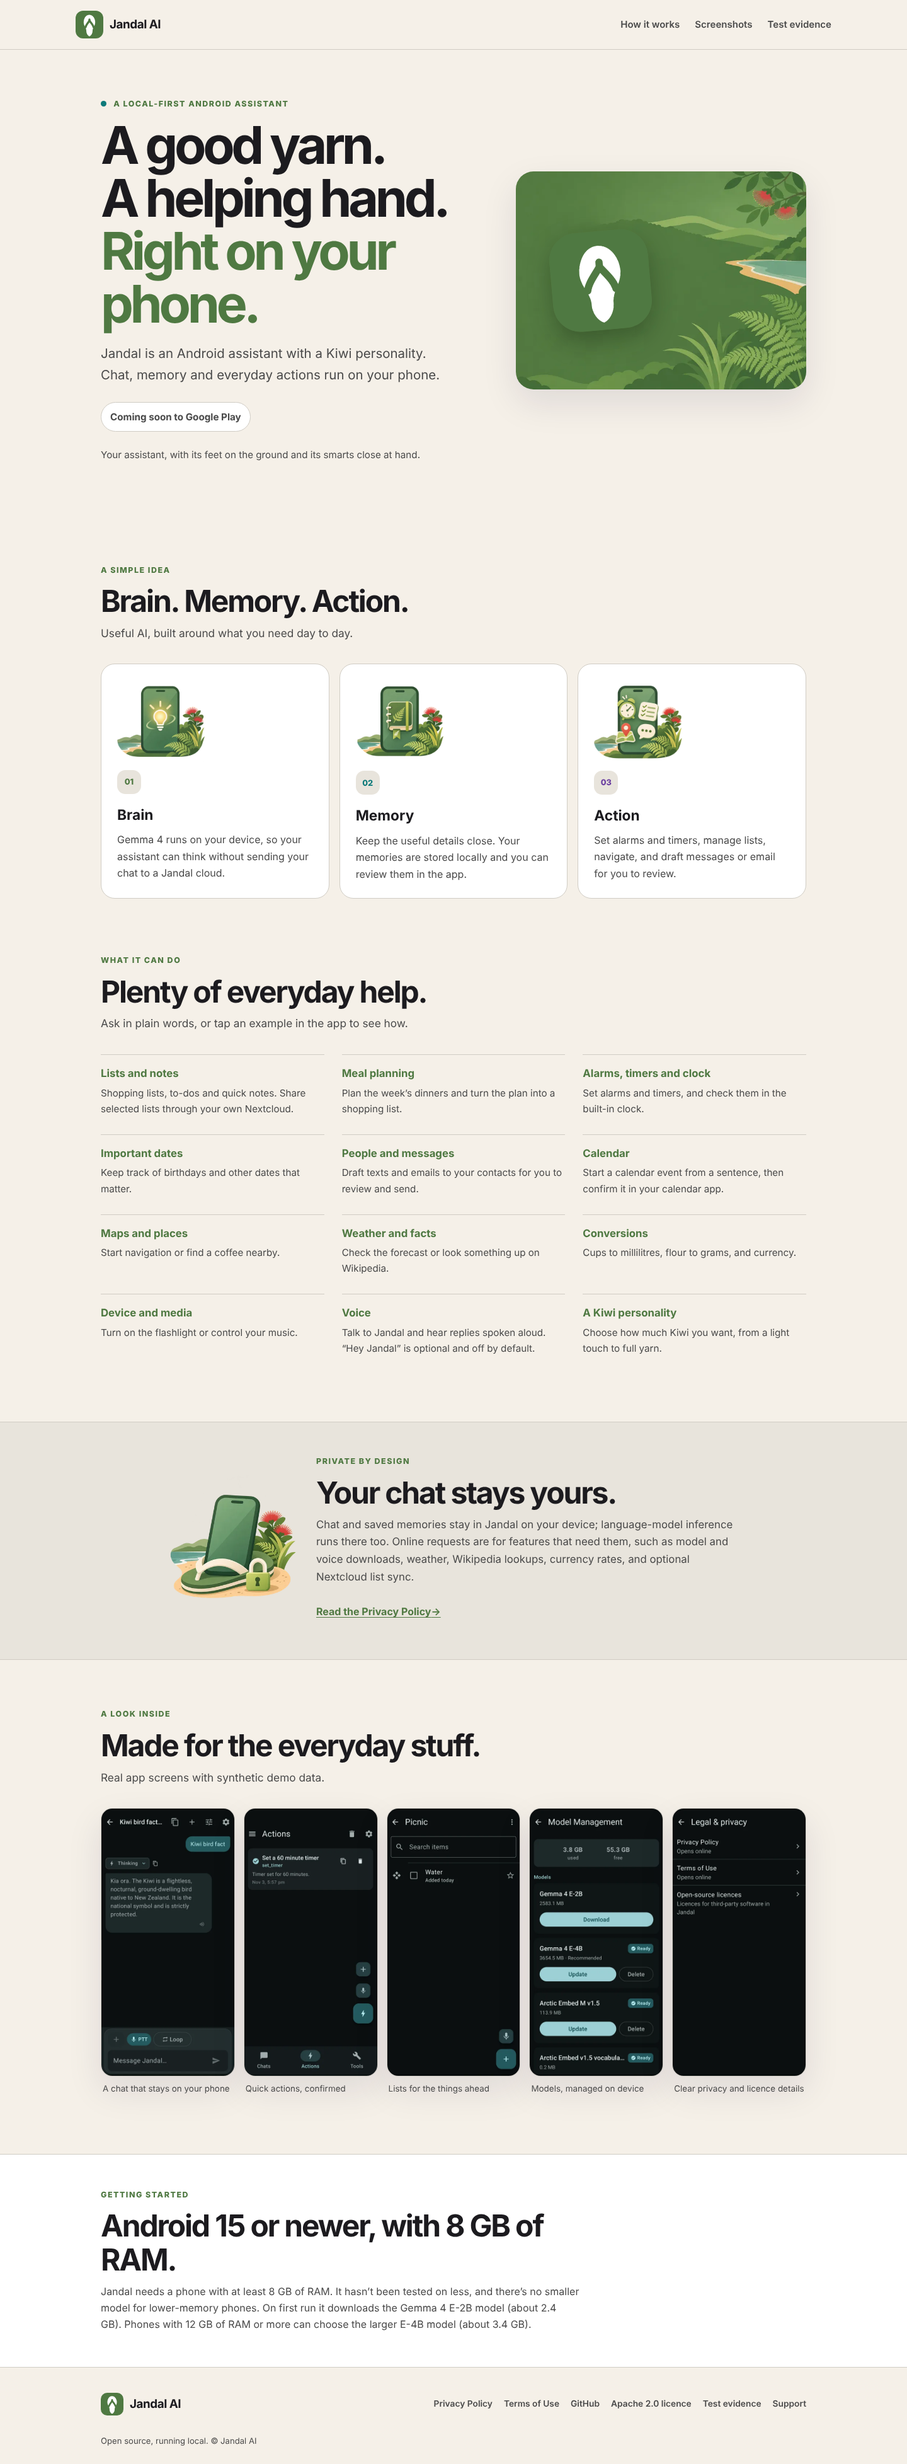
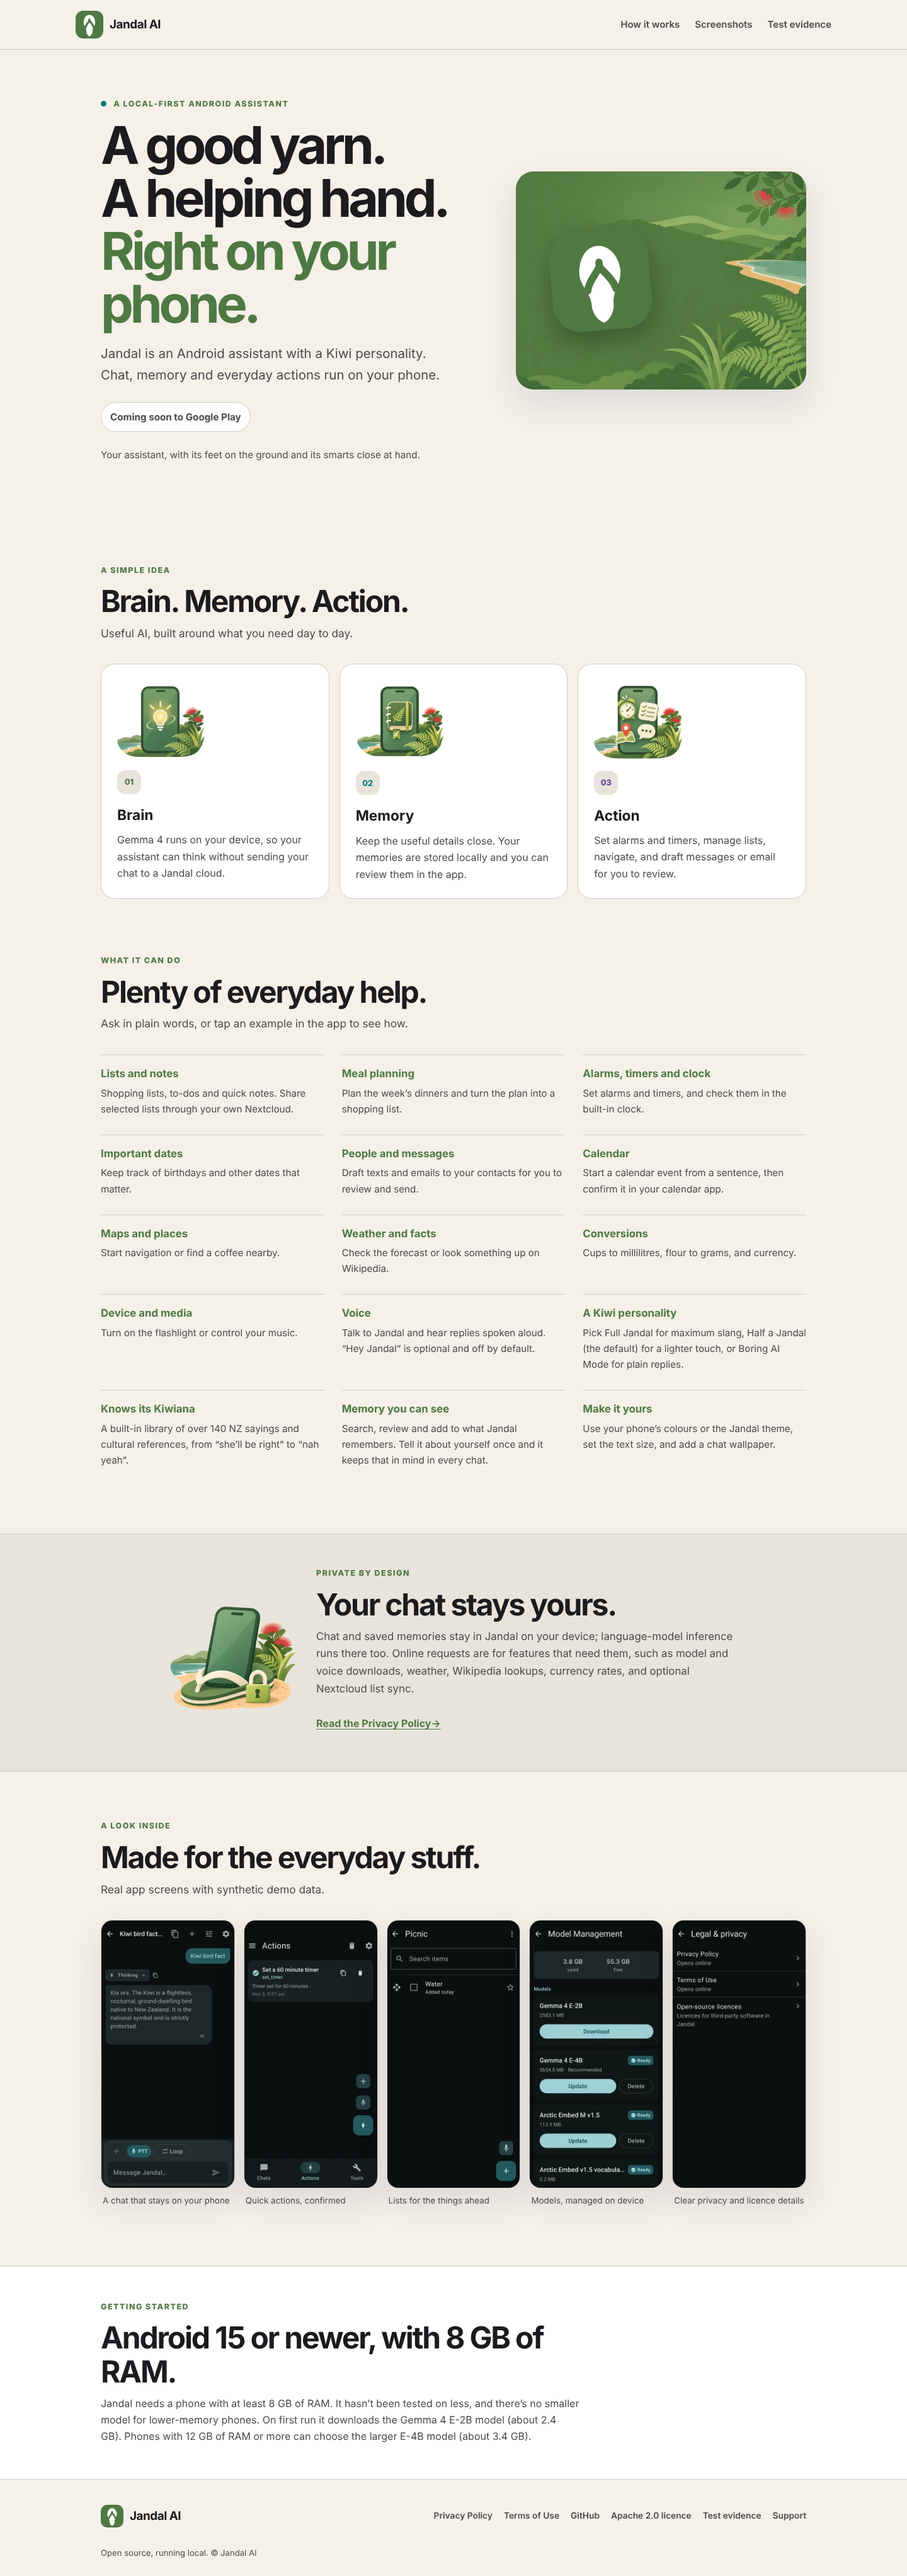
feat(#1754): name the personality modes; add Kiwiana, memory and theming
Per Nick's review: use the in-app personality mode names, mention the
built-in NZ cultural memories, visible/searchable memory and the user
profile, and appearance options.

Claude-Session: https://claude.ai/code/session_013fr62a1d9NmcGmzFgBDBMK

diff --git a/site/index.html b/site/index.html
@@ -89,7 +89,10 @@
         <li><h3>Conversions</h3><p>Cups to millilitres, flour to grams, and currency.</p></li>
         <li><h3>Device and media</h3><p>Turn on the flashlight or control your music.</p></li>
         <li><h3>Voice</h3><p>Talk to Jandal and hear replies spoken aloud. “Hey Jandal” is optional and off by default.</p></li>
-        <li><h3>A Kiwi personality</h3><p>Choose how much Kiwi you want, from a light touch to full yarn.</p></li>
+        <li><h3>A Kiwi personality</h3><p>Pick Full Jandal for maximum slang, Half a Jandal (the default) for a lighter touch, or Boring AI Mode for plain replies.</p></li>
+        <li><h3>Knows its Kiwiana</h3><p>A built-in library of over 140 NZ sayings and cultural references, from “she’ll be right” to “nah yeah”.</p></li>
+        <li><h3>Memory you can see</h3><p>Search, review and add to what Jandal remembers. Tell it about yourself once and it keeps that in mind in every chat.</p></li>
+        <li><h3>Make it yours</h3><p>Use your phone’s colours or the Jandal theme, set the text size, and add a chat wallpaper.</p></li>
       </ul>
     </section>
 
